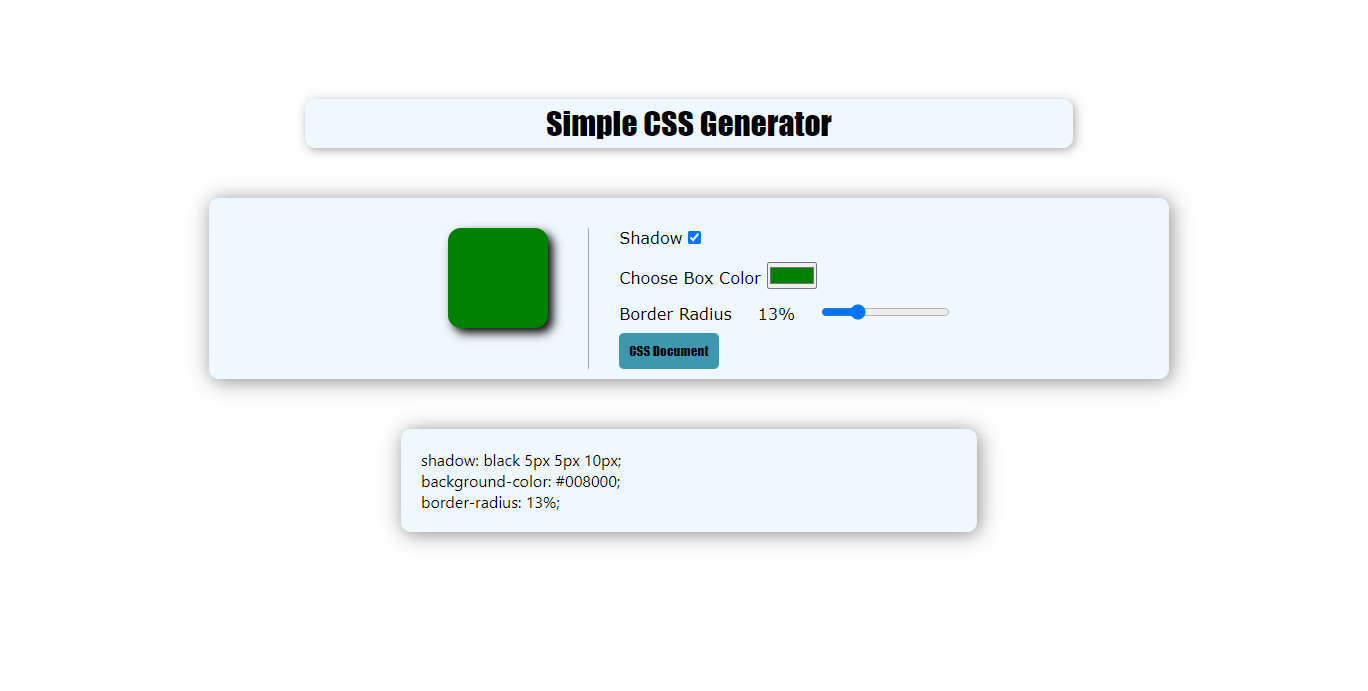
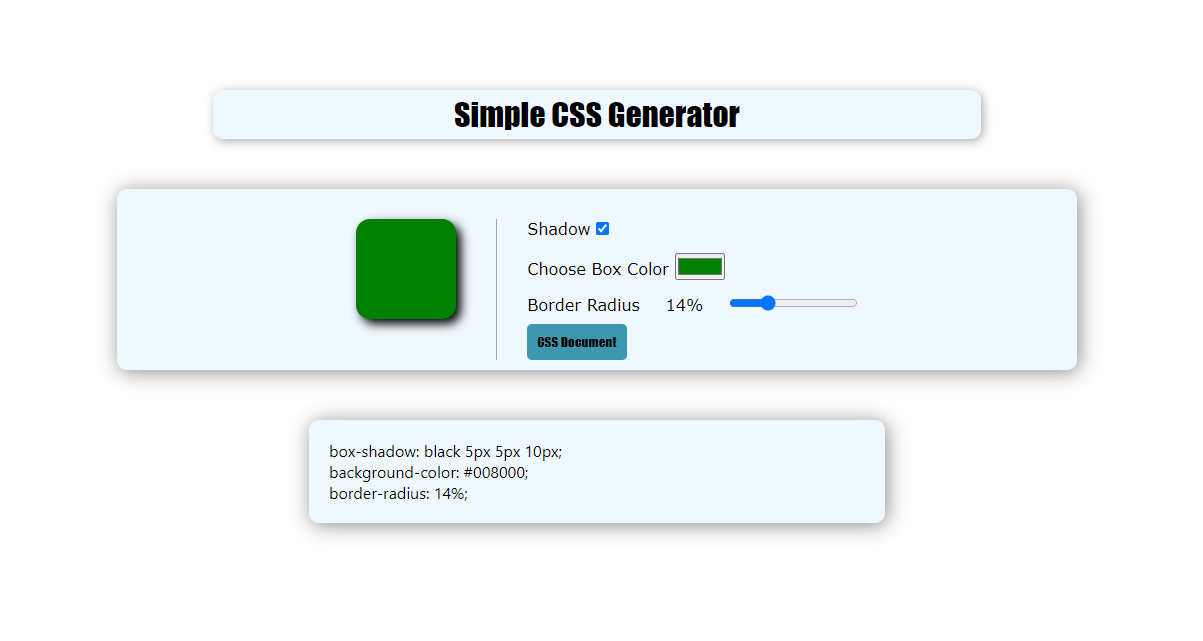
update

diff --git a/scripts/script.js b/scripts/script.js
@@ -24,7 +24,7 @@ function writeCss(){
         if(outPutBox.style.boxShadow == ""){
             printer.innerHTML = `background-color: ${colorPicker.value}; <br> border-radius: ${input.value}%;`//if shadow check box is not checked use this innerhtml
         }else{
-            printer.innerHTML = `shadow: ${outPutBox.style.boxShadow}; <br> background-color: ${colorPicker.value}; <br> border-radius: ${input.value}%;` //if shadow check box is  checked use this innerhtml
+            printer.innerHTML = `box-shadow: ${outPutBox.style.boxShadow}; <br> background-color: ${colorPicker.value}; <br> border-radius: ${input.value}%;` //if shadow check box is  checked use this innerhtml
         }
         
         //-*-*-*printer-*-*-*--*

diff --git a/README.md b/README.md
@@ -1,7 +1,6 @@
 # Simple CSS Generator 
 
 ![img](/assets/generator.png)
-
 ## What can you do ?
 
 - You can change background color
